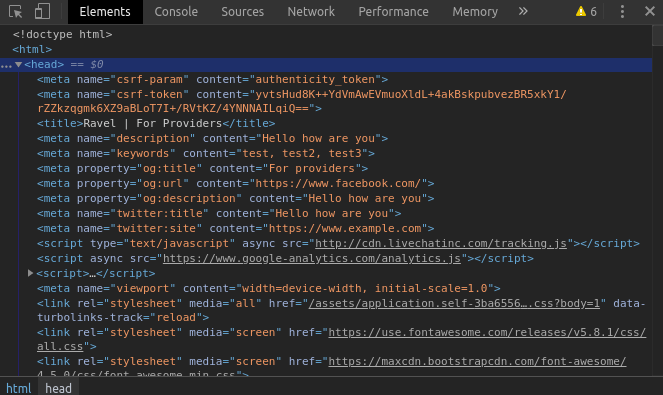
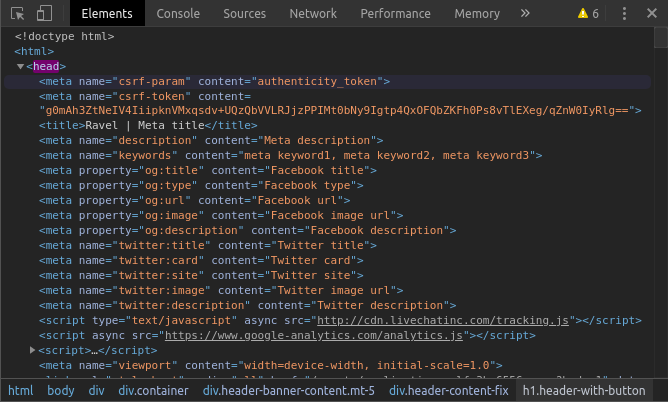
Screenshot add

diff --git a/README.md b/README.md
@@ -278,6 +278,11 @@ follow dynamic pages active admin guidelines.
 Above image show how the static routes can be configured using active admin generator. It will capture the routes and show
 it in here to edit.
 
+![activeadmin-static-seoable-frontend](./screenshots/static-pages-seoable-details.png)
+
+Above image show how the meta details has been configured from the backend of active admin. 
+These details will appear in the frontend (inside the head tag).
+
 ![activeadmin-static-seoable-frontend](./screenshots/static-pages-seoable-frontend.png)
 
 Above image show how the meta tags has been rendered inside the head tag for a static page.
